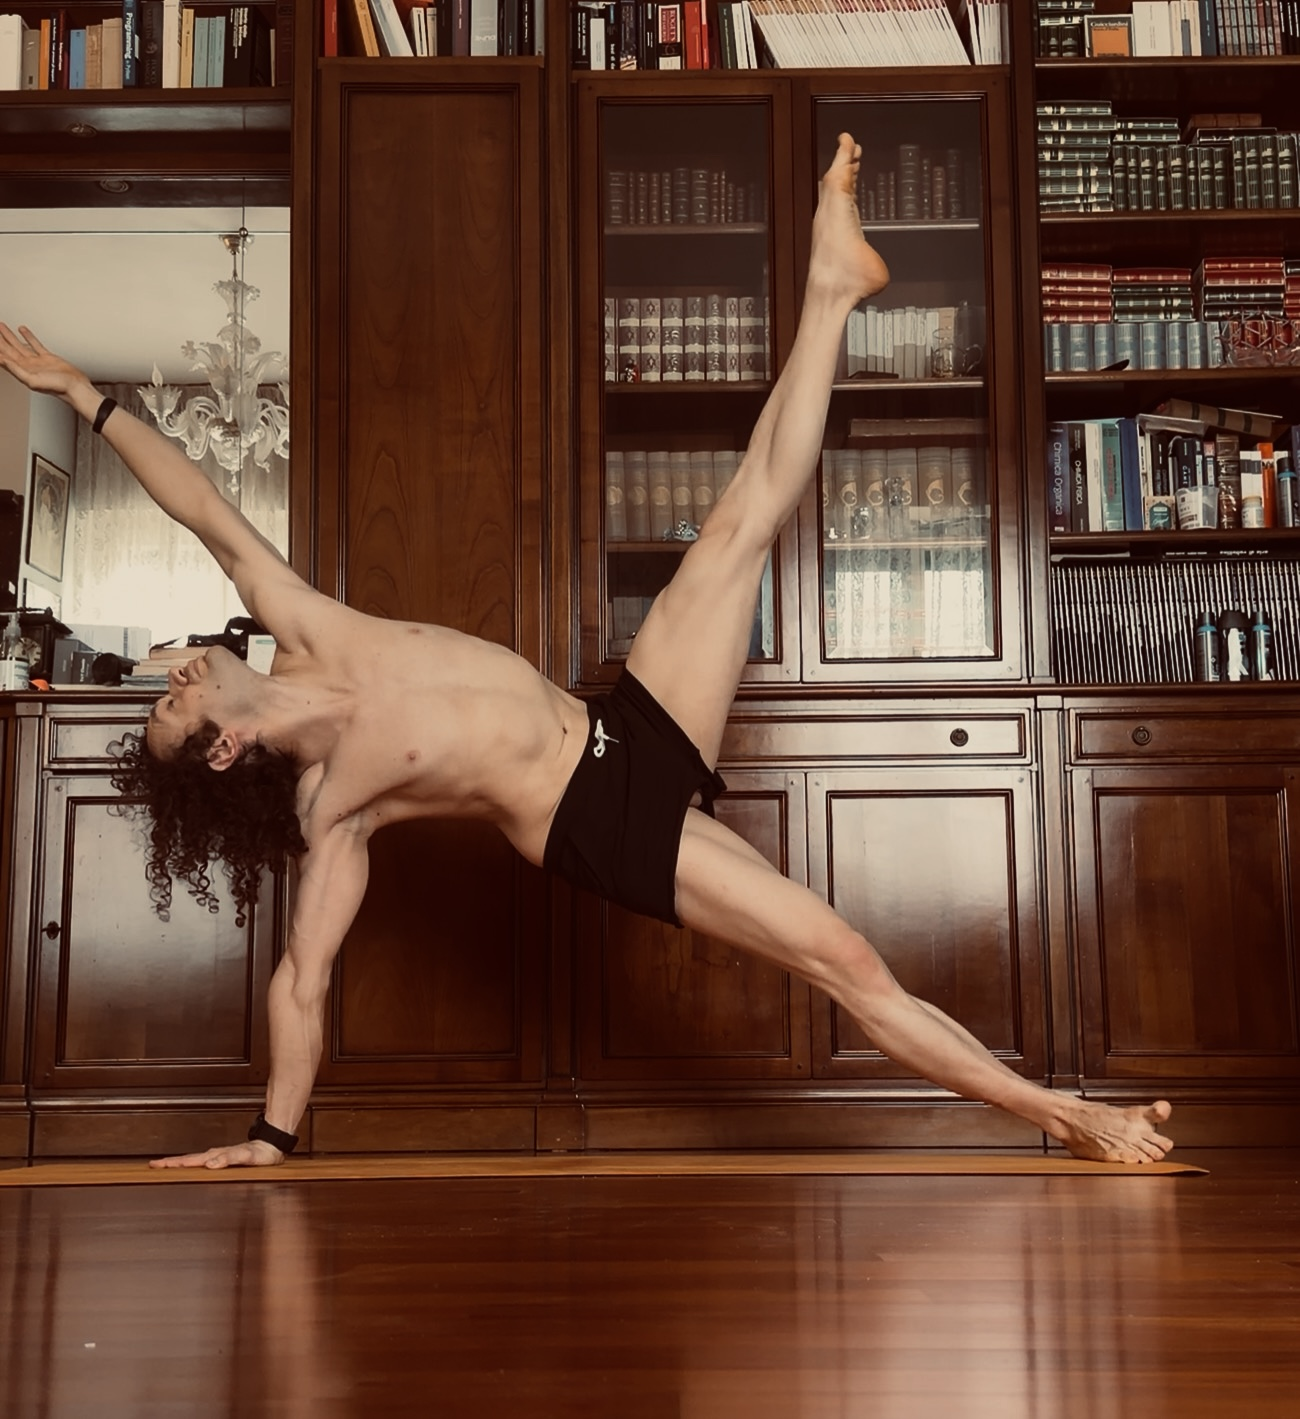
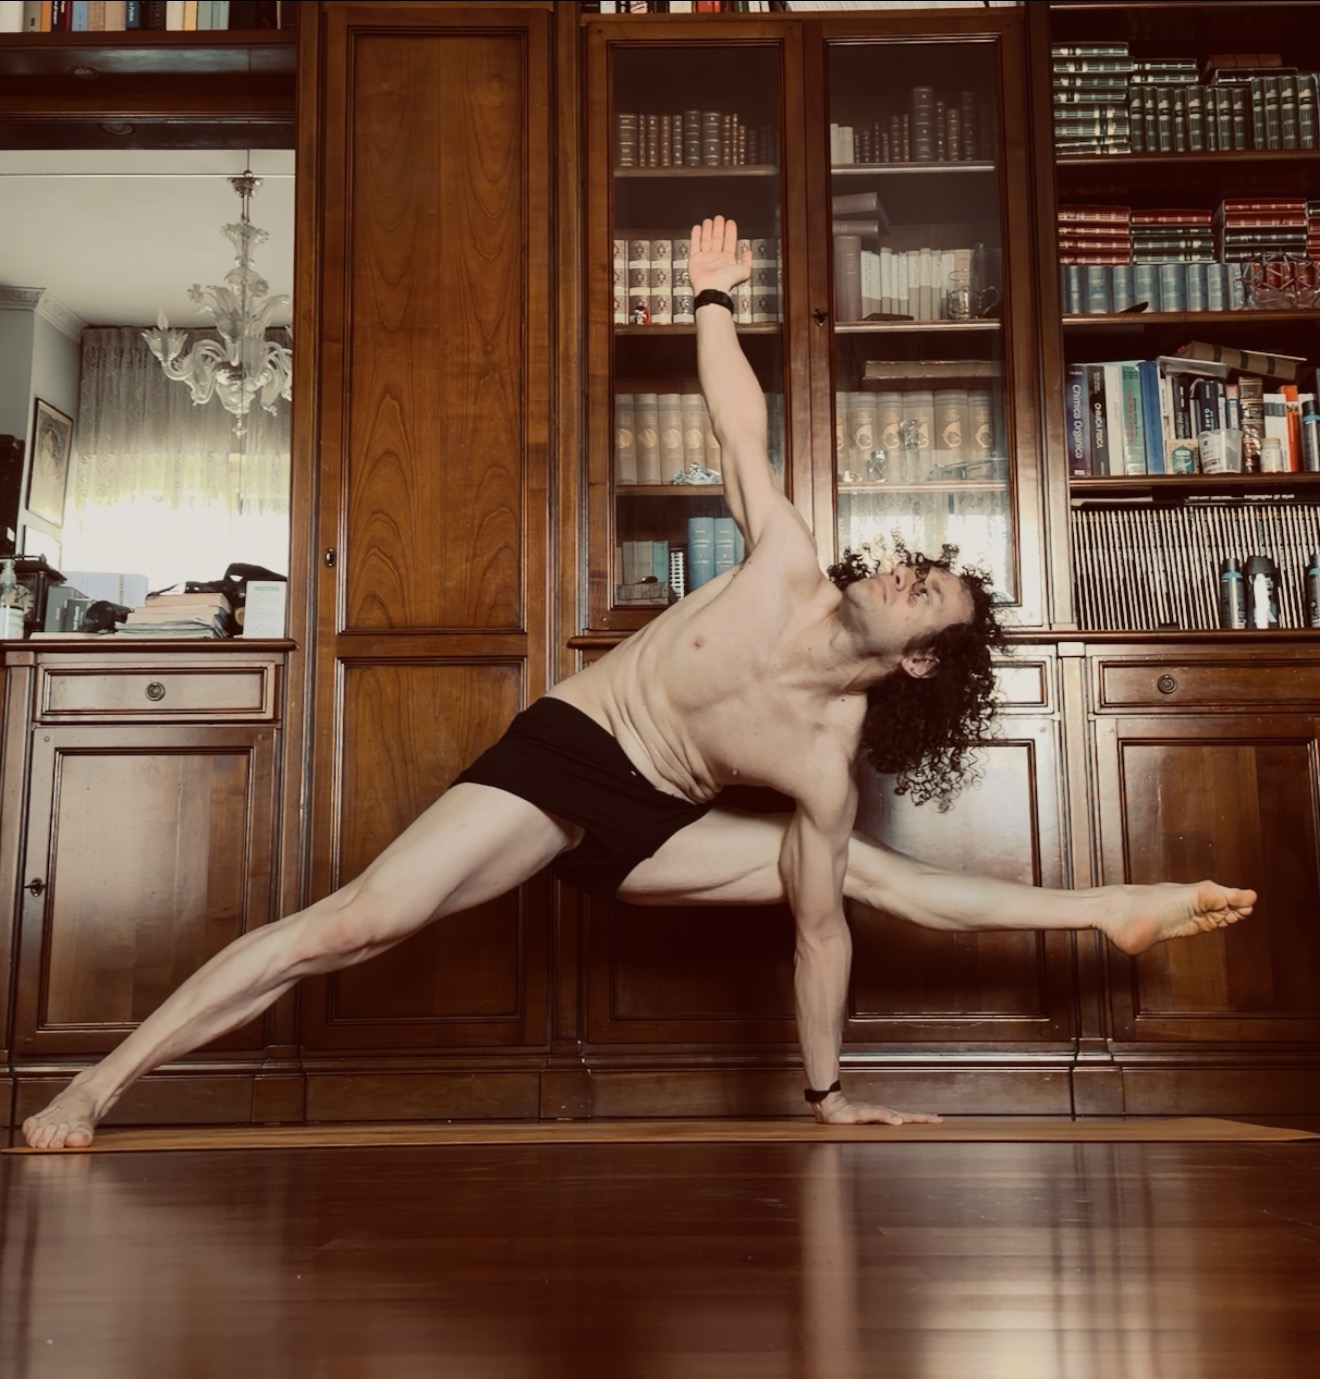
pub

diff --git a/content/markdown/en/profilo-dati.md b/content/markdown/en/profilo-dati.md
@@ -286,10 +286,10 @@ A person climbs an artificial wall with numbered holds, supported by their hands
 Yoga
 
 ## personalPhotos_4_caption
-Vasiṣṭhāsana variation · Side balance on one hand and one foot, with the other leg lifted.
+Viśvāmitrāsana · The thigh rests on the arm that supports the torso. The leg extends almost parallel to the mat as the gaze follows the raised hand.
 
 ## personalPhotos_4_alt
-Marzio balances on one hand and one foot with the other leg raised in front of a bookcase.
+In front of a bookcase, Marzio balances on one hand and the opposite foot. His other leg extends to the right above the mat, and his free arm reaches straight up.
 
 ## personalPhotos_5_category
 Yoga

diff --git a/LEGGIMI_PRIMA_DI_CARICARE.md b/LEGGIMI_PRIMA_DI_CARICARE.md
@@ -1,4 +1,4 @@
-# Pacchetto GitHub completo — Topological Manifolds v3.27.0
+# Pacchetto GitHub completo — Topological Manifolds v3.27.1
 
 La versione include le tavole 3D del carbonio e del potenziale a due valli, le didascalie degli asana con due viste annotate e i nuovi comandi di lettura. Le immagini WebP sono pronte per la pubblicazione. Per rigenerarle dagli stessi modelli, usa `python3 tools/render-editorial-geometry.py` con Blender e Pillow.
 

diff --git a/CHANGELOG.md b/CHANGELOG.md
@@ -1,5 +1,9 @@
 # Aggiornamenti
 
+## 3.27.1 — 22 novembre 2026
+
+- Sostituita nella biografia la fotografia di Vasiṣṭhāsana con Viśvāmitrāsana. La nuova fotografia originale ha didascalia, testo alternativo e guide agli appoggi in italiano e inglese.
+
 ## 3.27.0 — 22 novembre 2026
 
 - Pubblicato il saggio «Il pessimo rapporto fra l’IA e il pensiero umano» in italiano e in inglese.
